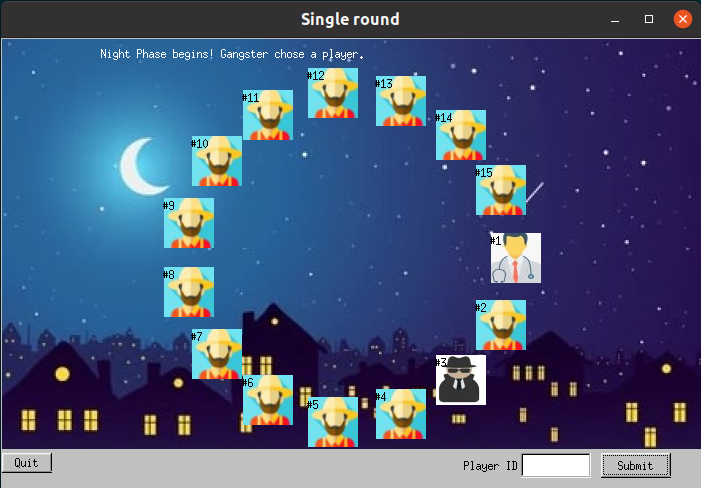
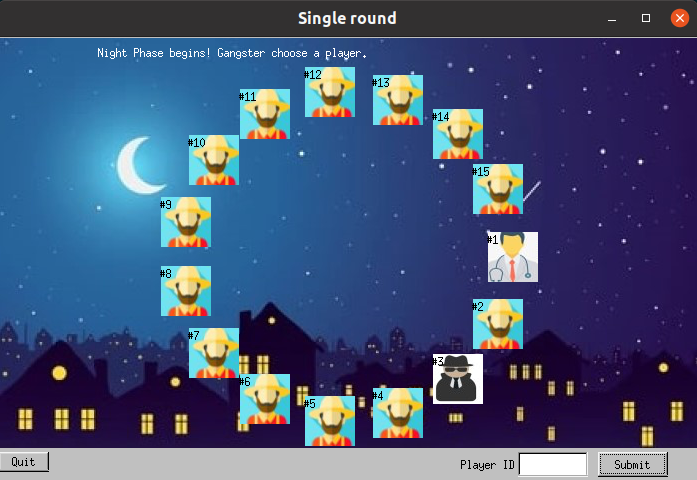
Update README.md

diff --git a/Assignment_3/Assignment_3/Game_window.cpp b/Assignment_3/Assignment_3/Game_window.cpp
@@ -26,7 +26,7 @@ Game_window::Game_window(Point xy, int w, int h, \
     doc_id(-1),
     day_voters(vec.size()),
     cir_center(700/2, 410/2 + 15), // Background pic is 700*410 pixels
-    t(Point(100, 20), "Night Phase begins! Gangster chose a player."),//35
+    t(Point(100, 20), "Night Phase begins! Gangster choose a player."),//35
     err_t(Point(70, y_max() - 20), ""),
     pl_vec(vec),
     background_img(new Image(Point(1,1), "Night.jpg")),  
@@ -308,7 +308,7 @@ void Game_window::submit(void) {
         // Gangster votes
         if (gang_pick == -1) {
             gang_pick = vote_id;
-            set_text("Doctor, its your turn to chose.");
+            set_text("Doctor, its your turn to choose.");
             return ;
         }
 
